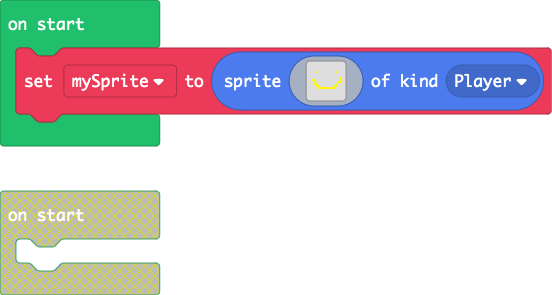
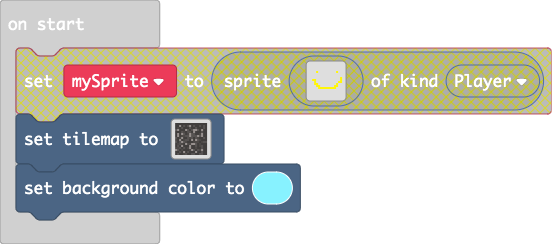
Update main.blocks, main.ts

diff --git a/main.ts b/main.ts
@@ -1,18 +1,254 @@
-let mySprite = sprites.create(img`
-. . . . . . . . . . . . . . . . 
-. . . . . . . . . . . . . . . . 
-. . . . . . . . . . . . . . . . 
-. . . 5 . . . . . . . . . 5 . . 
-. . . . . . . . . . . . . . . . 
-. . . . . . . . . . . . . . . . 
-. . . . . . . . . . . . . . . 5 
-. 5 5 . . . . . . . . . . . . 5 
-. . 5 . . . . . . . . . . . 5 5 
-. . 5 5 . . . . . . . . . 5 . . 
-. . . 5 5 . . . . . . . 5 5 . . 
-. . . . 5 5 5 5 5 5 5 5 5 . . . 
+namespace myTiles {
+    //% blockIdentity=images._tile
+    export const tile0 = img`
 . . . . . . . . . . . . . . . . 
 . . . . . . . . . . . . . . . . 
 . . . . . . . . . . . . . . . . 
 . . . . . . . . . . . . . . . . 
-`, SpriteKind.Player)
+. . . . . . . . . . . . . . . . 
+. . . . . . . . . . . . . . . . 
+. . . . . . . . . . . . . . . . 
+. . . . . . . . . . . . . . . . 
+. . . . . . . . . . . . . . . . 
+. . . . . . . . . . . . . . . . 
+. . . . . . . . . . . . . . . . 
+. . . . . . . . . . . . . . . . 
+. . . . . . . . . . . . . . . . 
+. . . . . . . . . . . . . . . . 
+. . . . . . . . . . . . . . . . 
+. . . . . . . . . . . . . . . . 
+`
+    //% blockIdentity=images._tile
+    export const tile1 = img`
+1 d b b b d 1 1 1 b b b 1 1 d d 
+1 d 1 b b d d 1 d b b b b 1 1 d 
+d d 1 1 1 1 b b d 1 d d d 1 1 1 
+1 1 1 1 1 1 1 b 1 1 1 d d b 1 1 
+b d 1 1 1 1 1 d d 1 1 d d d b b 
+b d d d d 1 b b 1 d 1 1 b d 1 d 
+b b b b b d d d d d 1 1 1 b d d 
+1 1 1 1 1 b 1 b b 1 1 1 1 1 b d 
+b b 1 1 d 1 1 d b b 1 d d d 1 1 
+d b b b d 1 1 d d b b 1 1 1 1 1 
+d d b b d 1 1 d d d d d 1 1 b d 
+d d d 1 1 1 d d b b b b 1 b b d 
+d d d b b b b b b b 1 1 1 b d d 
+d d d d 1 d d 1 d 1 1 1 b b 1 1 
+d b b b d d b 1 b b 1 d d d d d 
+b b d d 1 1 b 1 d b b 1 b 1 1 d 
+`
+    //% blockIdentity=images._tile
+    export const tile2 = img`
+. . . d d 1 d d 1 . . . . . . . 
+d d 1 1 1 1 d 1 1 1 1 1 1 d . . 
+. d d d 1 1 1 d d d 1 1 1 d . . 
+. . . d 1 1 1 1 1 1 d 1 1 1 d . 
+. . d 1 1 1 1 1 1 1 1 d 1 1 1 d 
+. d d d d d d d 1 1 d d d 1 1 1 
+d 1 1 d d . . . . . . . . d d 1 
+d d d . . . . . . . . . . . . . 
+. . . . . . d d d d . . . . . . 
+. . . . d 1 1 1 1 1 . . . . . . 
+. . d 1 1 d 1 1 d d 1 1 . . . . 
+d d d 1 1 1 d d 1 1 1 1 d d . . 
+d 1 1 1 1 d 1 1 1 1 1 1 1 1 1 . 
+d 1 1 1 d 1 1 d d 1 1 1 1 1 d . 
+. d d d d d . . . d d 1 d d . . 
+. . . . . . . . . . . . . . . . 
+`
+    //% blockIdentity=images._tile
+    export const tile3 = img`
+. . . . . d d d d d . . . . . . 
+. . . . d d 1 d d 1 1 d . . . . 
+. . . . d 1 1 1 d 1 1 1 d . . . 
+. . d d d 1 1 1 d d 1 1 1 d 1 . 
+. d d d 1 1 1 1 1 1 d d 1 1 1 . 
+d d d d d d d 1 1 1 1 1 1 1 1 . 
+. . . . d d d d d 1 1 1 d d 1 1 
+. . . . . . . . d d d d . . d d 
+. . . . . . . . . . . . . . . . 
+. . . . . . . . . . . . . . . . 
+. . . . . . . . . . . . . . . . 
+. . . . . . . . . . . . . . . . 
+. . . . . . . . . . . . . . . . 
+. . . . . . . . . . . . . . . . 
+. . . . . . . . . . . . . . . . 
+. . . . . . . . . . . . . . . . 
+`
+    //% blockIdentity=images._tile
+    export const tile4 = img`
+. . . . . d d d d d . . . . . . 
+. . . . d d 1 d d 1 1 d . . . . 
+. . . . d 1 1 1 d 1 1 1 d . . . 
+. . d d d 1 1 1 d d 1 1 1 d 1 . 
+. d d d 1 1 1 1 1 1 d d 1 1 1 . 
+d d d d d d d 1 1 1 1 1 1 1 1 . 
+. . . . d d d d d 1 1 1 d d 1 1 
+. . . . . . . . d d d d . . d d 
+. . . . . . . . . . . . . . . . 
+. . . . . . . . . . . . . . . . 
+. . . . . . . . . . . . . . . . 
+. . . . . . . . . . . . . . . . 
+. . . . . . . . . . . . . . . . 
+. . . . . . . . . . . . . . . . 
+. . . . . . . . . . . . . . . . 
+. . . . . . . . . . . . . . . . 
+`
+    //% blockIdentity=images._tile
+    export const tile5 = img`
+d d 1 1 1 1 1 d d 1 1 1 1 1 d d 
+1 d d d d d d d 1 1 1 1 d d d d 
+1 1 1 1 1 1 1 1 1 1 1 d d d d d 
+1 1 1 1 1 1 1 1 d d d d d d d d 
+d d 1 1 1 1 1 1 d d d 1 1 1 d 1 
+d d d 1 1 1 1 1 d d 1 1 1 1 1 1 
+d d d d d d 1 d d d d 1 1 1 1 1 
+1 d d d d d d d d d 1 1 1 d d d 
+1 1 1 d d d d d d d d d 1 1 1 1 
+1 1 1 1 1 d d 1 1 d d d 1 1 1 1 
+1 1 1 1 d d d d 1 1 1 d 1 1 1 1 
+1 1 1 1 1 d d d d d d d d d d 1 
+1 1 1 1 1 1 1 1 1 d d d d d d 1 
+d d d d 1 1 1 1 1 d d d d d d 1 
+1 1 1 1 d d d 1 1 1 1 1 d d d 1 
+1 1 1 1 1 1 d 1 1 1 1 1 1 1 1 1 
+`
+    //% blockIdentity=images._tile
+    export const tile6 = img`
+. . . . . . . . . . . . . . . . 
+. . . . . . . . . . . . . . . . 
+. . . . . . . . . . . . . . . . 
+. . . . . . . . . . . . . . . . 
+. . . . . . . . . . . . . . . . 
+. . . . . . . . . . . . . . . . 
+. d 1 1 d . . d d . . . . . . . 
+. . d 1 1 d d 1 1 d . . . . . . 
+. . . d 1 1 d d 1 1 1 d d d . . 
+. d d 1 1 1 1 d d d 1 1 1 1 d . 
+d d 1 1 1 d 1 1 1 d d 1 1 1 d . 
+d 1 d d d 1 1 1 1 1 1 1 1 d d d 
+. . . . 1 d d 1 1 1 1 1 1 1 1 . 
+. . . . . . . d 1 1 d d d 1 1 . 
+. . . . . . . . . . . . . 1 d d 
+. . . . . . . . . . . . . . . . 
+`
+    //% blockIdentity=images._tile
+    export const tile7 = img`
+. . . . . . . . . . . . . . . . 
+. . . . . . . . . . . . . . . . 
+. . . . . . . . . . . . . . . . 
+. . . . . . . . . . . . . . . . 
+. . . . d d 1 . . . . . . . . . 
+. . d 1 1 1 1 1 d d d . d d d d 
+. . . d d d 1 1 1 1 1 d 1 d 1 d 
+d 1 1 1 1 1 d 1 1 1 1 1 1 1 d . 
+d d d 1 1 1 1 d d 1 1 d d d . . 
+. . . d d 1 1 1 1 1 1 . . . . . 
+. . . . . d d d . . . . . . . . 
+. . . . . . . . . . . . . . . . 
+. . . . . . . . . . . . . . . . 
+. . . . . . . . . . . . . . . . 
+. . . . . . . . . . . . . . . . 
+. . . . . . . . . . . . . . . . 
+`
+    //% blockIdentity=images._tile
+    export const tile8 = img`
+d d d d d 1 1 1 1 d d d 1 1 1 1 
+1 1 d d 1 1 1 1 1 1 d d 1 1 1 1 
+1 1 1 1 1 1 1 1 1 1 1 1 1 1 1 1 
+1 1 1 1 1 1 1 1 1 1 1 1 1 1 1 1 
+1 1 1 1 1 1 1 1 1 1 1 1 1 1 d d 
+1 1 1 1 1 1 1 1 1 1 1 1 1 1 d d 
+d 1 1 1 1 1 1 1 1 1 1 1 1 d d d 
+1 1 1 1 1 1 1 1 1 1 d d d d d d 
+1 1 1 1 1 1 1 1 1 1 d 1 1 1 1 d 
+1 1 1 1 1 1 1 1 1 1 1 1 1 1 1 d 
+1 1 1 1 1 1 1 1 1 1 1 1 1 1 1 d 
+1 1 1 1 1 1 1 1 1 1 1 1 1 1 1 d 
+d 1 1 1 1 1 1 1 1 1 1 1 1 1 1 d 
+d 1 1 1 1 1 1 1 1 1 1 1 1 1 1 d 
+d d 1 1 1 1 1 1 1 1 1 1 1 1 d d 
+d d d d d 1 1 1 1 1 d d d d d d 
+`
+    //% blockIdentity=images._tile
+    export const tile9 = img`
+d d d d d d d d d d d d d d d d 
+d 1 1 d d d d d d d d d d d d d 
+1 1 1 1 d d d d d d d d d d d d 
+d d d d d d d d d 1 1 d d d d d 
+d d d d d d d d d d 1 1 d d d d 
+d d d d d d d d d d d d 1 1 1 1 
+d d d d d d d d d d d d d d d d 
+d d d d d d d d d d d d d d d d 
+d d d d d 1 1 d d d d d d d d d 
+d d d d d d d 1 1 d d d d d d d 
+d d d d d d d d 1 d d d d d d d 
+d d 1 1 1 1 1 1 1 d d d d d d d 
+d 1 1 d d d d d d d d d d d d d 
+d d d d d d d d d d d d 1 1 1 1 
+d d d d d d d d d d d 1 1 d d d 
+d d d d d d d d 1 1 1 d d d d d 
+`
+    //% blockIdentity=images._tile
+    export const tile10 = img`
+d d d d d 1 1 1 1 d d d 1 1 1 1 
+1 1 d d 1 1 1 1 1 1 d d d 1 1 1 
+1 1 1 1 1 1 1 1 1 1 1 1 1 d d d 
+d d 1 1 1 1 1 1 1 1 1 1 1 1 1 1 
+1 d d d d d d 1 1 1 1 1 1 1 d d 
+1 1 1 1 1 1 d d d d 1 1 1 1 d d 
+d 1 1 1 1 1 1 1 1 1 d d d d d d 
+1 1 1 1 1 1 1 1 1 1 d d d d d d 
+d d 1 1 1 1 1 1 1 1 d 1 1 1 1 d 
+1 d d d d 1 1 1 1 1 1 1 1 1 1 d 
+1 1 1 1 d d d d d d d 1 1 1 1 d 
+1 1 1 1 1 1 1 1 1 1 d d 1 1 1 d 
+d 1 1 1 1 1 1 1 1 1 1 1 d d 1 d 
+d 1 1 1 1 1 1 1 1 1 1 1 1 d d d 
+d d 1 1 1 1 1 1 1 1 1 1 1 1 d d 
+d d d d d 1 1 1 1 1 d d d d d d 
+`
+    //% blockIdentity=images._tile
+    export const tile11 = img`
+d d d d d d 1 1 1 d d d d d d d 
+1 1 d d d 1 1 1 1 1 d d 1 1 1 1 
+1 1 1 1 1 d d d 1 1 1 1 1 1 1 1 
+1 1 1 1 1 1 1 1 d d 1 1 1 1 1 1 
+1 1 1 1 1 1 1 1 1 1 1 1 1 1 1 1 
+d d 1 1 1 1 1 1 1 1 1 1 1 1 d d 
+d d d 1 1 1 1 1 1 1 1 1 1 d d d 
+1 1 1 1 1 1 1 1 1 1 d d d d d d 
+1 1 1 1 1 1 d d d d d 1 1 1 1 d 
+1 1 1 d d d d d 1 1 1 1 1 1 1 d 
+1 1 1 1 1 d 1 1 1 1 1 1 1 1 1 d 
+1 1 1 1 1 1 1 1 1 1 1 1 1 1 1 d 
+1 1 1 1 1 1 1 1 1 1 1 1 1 1 1 d 
+d 1 1 1 1 1 1 1 1 1 1 1 1 1 1 d 
+d d d d 1 1 1 d 1 1 1 1 1 1 d d 
+d d d d d d d d d d 1 1 d d d d 
+`
+}
+tiles.setTilemap(tiles.createTilemap(
+            hex`1000100007070707070707070707070707070707070702070607060207060707060706070704070607070706070706070707060706020707070206070602020607020707070707060407060607020707070607070702070206070402060607070402070707020704040606020606060206020707060704020707060406070604070706070407020704060607020702060407070706070602060407070704040407040606070406040702040402020607040707070706070207070702070706070406070704040607060704020707040707060707020607040707070402060706040207070707060702070607070702070706070707060707040607070606070706060707`,
+            img`
+. . . . . . . . . . . . . . . . 
+. . . . . . . . . . . . . . . . 
+. . . . . . . . . . . . . . . . 
+. . . . . . . . . . . . . . . . 
+. . . . . . . . . . . . . . . . 
+. . . . . . . . . . . . . . . . 
+. . . . . . . . . . . . . . . . 
+. . . . . . . . . . . . . . . . 
+. . . . . . . . . . . . . . . . 
+. . . . . . . . . . . . . . . . 
+. . . . . . . . . . . . . . . . 
+. . . . . . . . . . . . . . . . 
+. . . . . . . . . . . . . . . . 
+. . . . . . . . . . . . . . . . 
+. . . . . . . . . . . . . . . . 
+. . . . . . . . . . . . . . . . 
+`,
+            [myTiles.tile0,myTiles.tile1,myTiles.tile2,myTiles.tile3,myTiles.tile4,myTiles.tile5,myTiles.tile6,myTiles.tile7,myTiles.tile8,myTiles.tile9,myTiles.tile10,myTiles.tile11],
+            TileScale.Sixteen
+        ))
+scene.setBackgroundColor(9)
